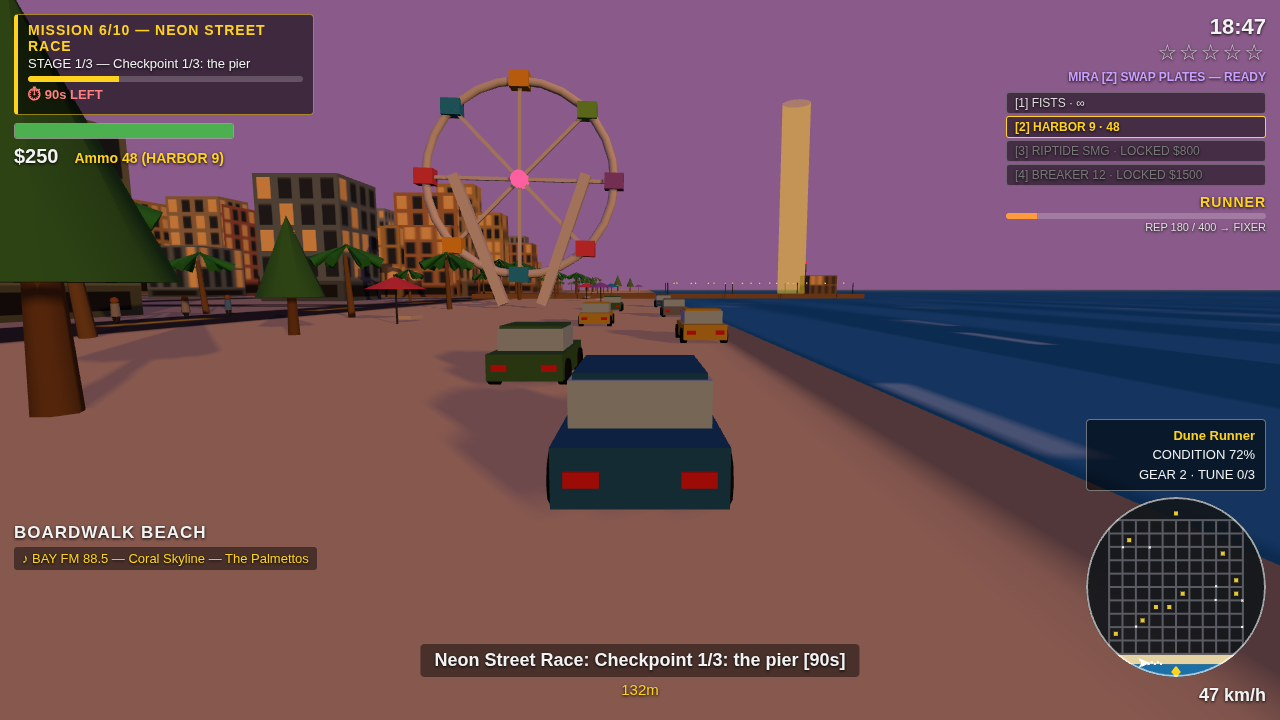
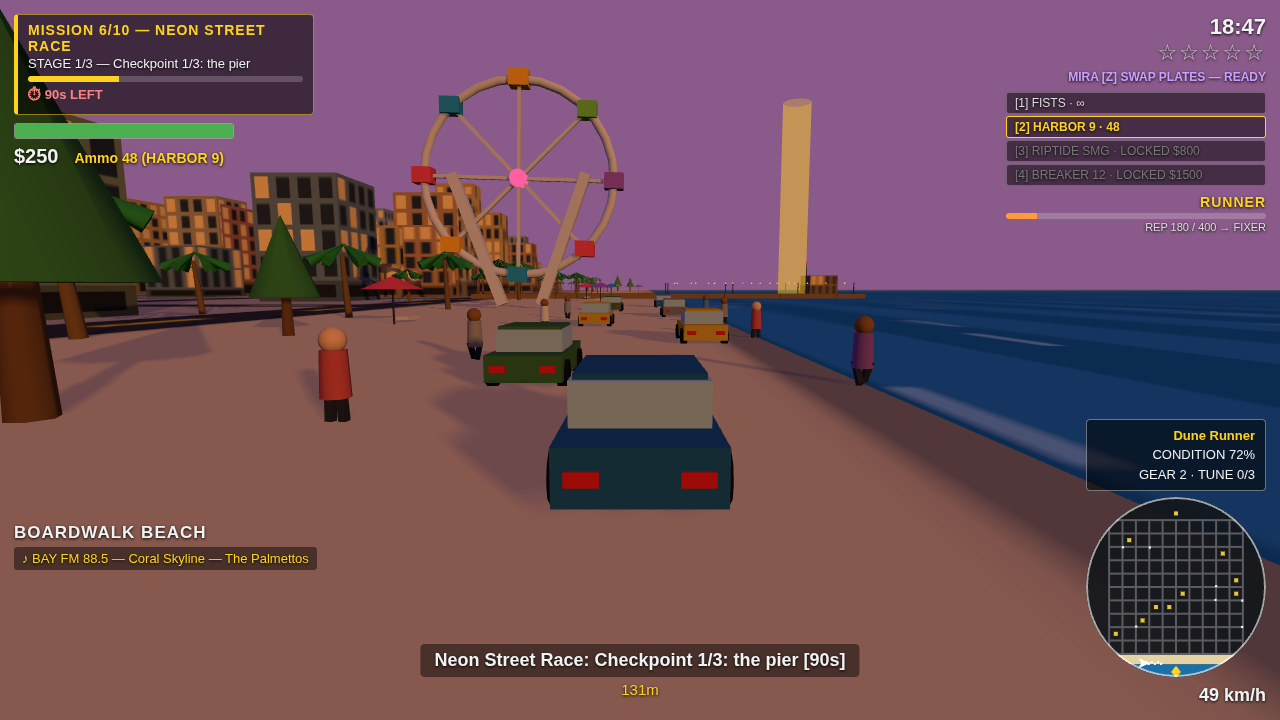
Solmar Bay v5 (sprint 5): thick shot-3 beams, shot-2 peds on beach road, spread roadblock, steal heat 25
- staging-fx.js rewrite: beams r 0.15/0.06 (was 0.09/0.035), readable in shot 3
- autopilot.js: shot 2 peds 3 nearest moved to 8-15m from camera path; shot 3
  enemies spread laterally; shot 4 roadblock cars staggered (-5,-215)/(5,-217)
- people.js: ped z-clamp max 258 -> 312 so staged beach-road peds (z 290/302)
  are no longer snapped back 38m off the road
- main.js: free-roam steal heat 15 -> 25 (1 star, same as mission steal)
- screenshots 1-4 retaken and verified live (selftest 7/7, steal probe,
  drive 25.6->29.1 m/s distPosCar=0, DOM shop clicks)

diff --git a/game/src/staging-fx.js b/game/src/staging-fx.js
@@ -1,24 +1,25 @@
 export function stageShotFx(game) {
   try {
     if (!game || !game.scene || !game.player || !game.player.pos) return 0;
-    const THREE = game.THREE || (typeof window !== 'undefined' ? window.THREE : null);
+    const THREE = game.THREE || (typeof window !== 'undefined' ? window.THREE : undefined);
     if (!THREE) return 0;
     if (!game.combat || typeof game.combat.livingEnemies !== 'function') return 0;
     const enemies = game.combat.livingEnemies();
-    if (!enemies || !enemies.length) return 0;
+    if (!enemies || enemies.length === 0) return 0;
 
     const px = game.player.pos.x;
     const pz = game.player.pos.z;
 
+    // Musuh terdekat dari pemain (jarak kuadrat di bidang xz).
     let nearest = null;
-    let nearestD2 = Infinity;
+    let nearestDistSq = Infinity;
     for (const e of enemies) {
       if (!e || !e.pos) continue;
       const dx = e.pos.x - px;
       const dz = e.pos.z - pz;
-      const d2 = dx * dx + dz * dz;
-      if (d2 < nearestD2) {
-        nearestD2 = d2;
+      const dSq = dx * dx + dz * dz;
+      if (dSq < nearestDistSq) {
+        nearestDistSq = dSq;
         nearest = e;
       }
     }
@@ -32,28 +33,37 @@ export function stageShotFx(game) {
     const playerMuzzle = new THREE.Vector3(px, 1.3, pz);
     const enemyChest = new THREE.Vector3(ex, 1.2, ez);
 
-    const dir = new THREE.Vector3().subVectors(playerChest, enemyMuzzle).normalize();
-    const impact = new THREE.Vector3().copy(playerChest).addScaledVector(dir, -0.7);
-
-    const up = new THREE.Vector3(0, 1, 0);
+    const dir = playerChest.clone().sub(enemyMuzzle).normalize();
+    const impact = playerChest.clone().add(dir.clone().multiplyScalar(-0.7));
 
     function addBeam(from, to) {
-      const segDir = new THREE.Vector3().subVectors(to, from);
+      const segDir = to.clone().sub(from);
       const len = segDir.length();
       if (len <= 0) return;
       segDir.normalize();
-      const mid = new THREE.Vector3().addVectors(from, to).multiplyScalar(0.5);
-      const quat = new THREE.Quaternion().setFromUnitVectors(up, segDir);
+      const mid = from.clone().add(to).multiplyScalar(0.5);
+      const quat = new THREE.Quaternion().setFromUnitVectors(
+        new THREE.Vector3(0, 1, 0),
+        segDir
+      );
 
-      const outerGeo = new THREE.CylinderGeometry(0.09, 0.09, len, 8, 1, true);
-      const outerMat = new THREE.MeshBasicMaterial({ color: 0xffb040, transparent: true, opacity: 0.45 });
+      const outerGeo = new THREE.CylinderGeometry(0.15, 0.15, len, 8, 1, true);
+      const outerMat = new THREE.MeshBasicMaterial({
+        color: 0xffb040,
+        transparent: true,
+        opacity: 0.55,
+      });
       const outer = new THREE.Mesh(outerGeo, outerMat);
       outer.position.copy(mid);
       outer.quaternion.copy(quat);
       game.scene.add(outer);
 
-      const coreGeo = new THREE.CylinderGeometry(0.035, 0.035, len, 8, 1, true);
-      const coreMat = new THREE.MeshBasicMaterial({ color: 0xfff6c0, transparent: true, opacity: 0.95 });
+      const coreGeo = new THREE.CylinderGeometry(0.06, 0.06, len, 8, 1, true);
+      const coreMat = new THREE.MeshBasicMaterial({
+        color: 0xfff6c0,
+        transparent: true,
+        opacity: 0.95,
+      });
       const core = new THREE.Mesh(coreGeo, coreMat);
       core.position.copy(mid);
       core.quaternion.copy(quat);
@@ -65,7 +75,11 @@ export function stageShotFx(game) {
 
     function addGlow(radius, color, transparent, opacity, at) {
       const geo = new THREE.SphereGeometry(radius, 12, 8);
-      const mat = new THREE.MeshBasicMaterial({ color, transparent, opacity });
+      const mat = new THREE.MeshBasicMaterial({
+        color,
+        transparent,
+        opacity,
+      });
       const mesh = new THREE.Mesh(geo, mat);
       mesh.position.copy(at);
       game.scene.add(mesh);
@@ -77,7 +91,7 @@ export function stageShotFx(game) {
     addGlow(0.3, 0xffc040, false, 1, impact);
 
     return 2;
-  } catch (e) {
+  } catch (err) {
     return 0;
   }
 }

diff --git a/game/src/autopilot.js b/game/src/autopilot.js
@@ -248,7 +248,7 @@ function stageShot(game, n) {
     clearDialogue(game);
     game.camYaw = -Math.PI / 2; game.camDist = 9;
     try {
-      const pedSpots = [[-122, 290], [-116, 302], [-110, 290], [-104, 302], [-98, 290], [-92, 302], [-86, 290], [-80, 302]];
+      const pedSpots = [[-124, 290], [-119, 302], [-114, 290], [-104, 302], [-98, 290], [-92, 302], [-86, 290], [-80, 302]];
       const peds = (game.peds && game.peds.list) || [];
       const pedCount = Math.min(8, peds.length, pedSpots.length);
       for (let i = 0; i < pedCount; i++) {
@@ -294,7 +294,7 @@ function stageShot(game, n) {
       const line = missions && missions.dialogue && missions.dialogue[1];
       if (line && game.hud && game.hud.showDialogue) game.hud.showDialogue(line.name, line.text);
     } catch (e) {}
-    spawnEnemiesNear(game, 0, -20, [[-3, -6], [4, -7], [2, -10], [-7, -8]]);
+    spawnEnemiesNear(game, 0, -20, [[-6, -5], [6, -6], [-5, -9], [5, -10]]);
     game.camYaw = 0.15; game.camDist = 4.5;
     try { stageShotFx(game); } catch (e) { log('stageShotFx failed: ' + (e && e.message ? e.message : e)); }
   } else if (n === 4) {
@@ -325,7 +325,7 @@ function stageShot(game, n) {
       const b = blocks[0];
       if (b) {
         b.x = 0; b.z = -216; b.angle = Math.PI / 2; b.life = 30;
-        const spots = [[-3, -216], [3, -216]];
+        const spots = [[-5, -215], [5, -217]];
         const cars = b.cars || [];
         const cnt = Math.min(2, cars.length, spots.length);
         for (let i = 0; i < cnt; i++) {

diff --git a/game/src/people.js b/game/src/people.js
@@ -133,7 +133,7 @@ export class Pedestrians {
         if (p.pos.x < -HALF + 4 || p.pos.x > HALF - 4) p.dir = p.axis === 'x' ? -p.dir : p.dir;
         if (p.pos.z < -HALF + 4 || p.pos.z > HALF - 4) p.dir = p.axis === 'z' ? -p.dir : p.dir;
         p.pos.x = clamp(p.pos.x, -HALF + 2, HALF - 2);
-        p.pos.z = clamp(p.pos.z, -HALF + 2, HALF - 2);
+        p.pos.z = clamp(p.pos.z, -HALF + 2, 312);
       }
       // Animate walk + face movement direction.
       p.phase += dt * speed * 3.2;

diff --git a/game/src/main.js b/game/src/main.js
@@ -895,7 +895,7 @@ function animate() {
           if (car) {
             enterCar(car);
             car.taken = true;
-            try { if (police && typeof police.addHeat === 'function') police.addHeat(15); } catch (e) {}
+            try { if (police && typeof police.addHeat === 'function') police.addHeat(25); } catch (e) {}
             toast('Mobil dicuri! Polisi mengejar!');
           }
         }
